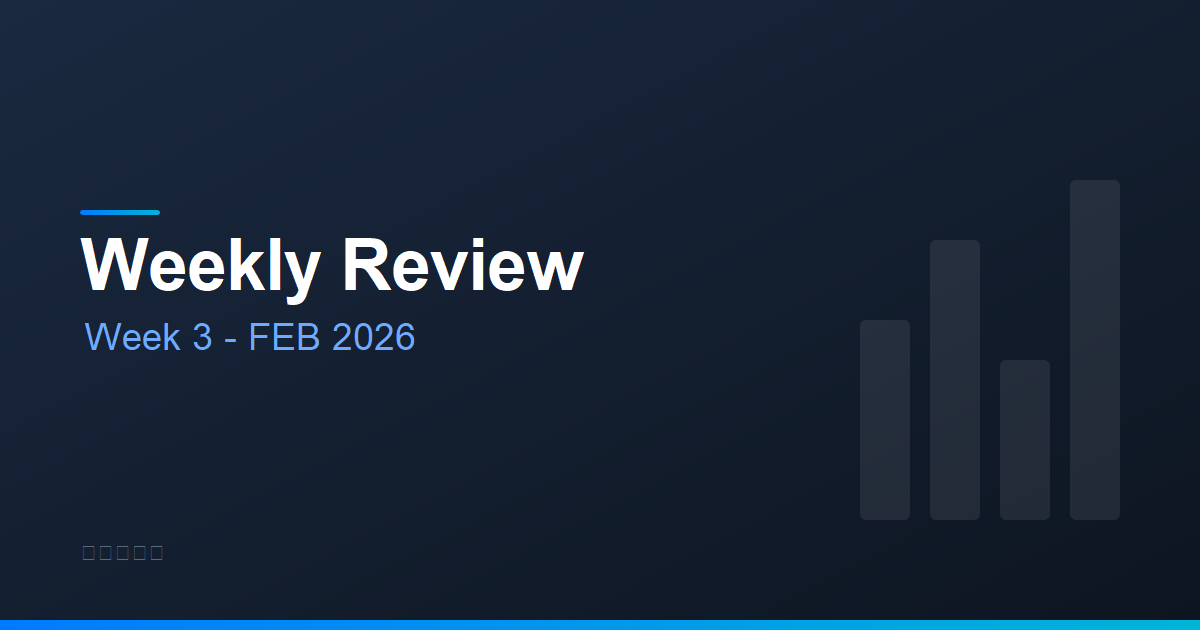
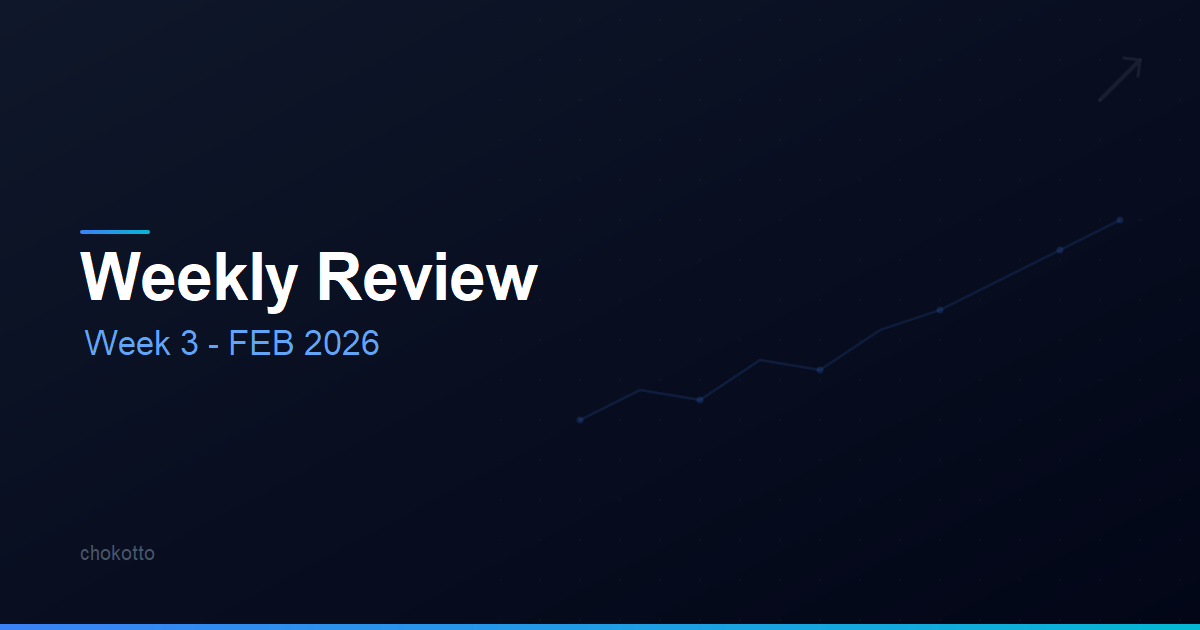
push

diff --git a/docs/quarto/latest/analysis.html b/docs/quarto/latest/analysis.html
@@ -487,10 +487,10 @@ window.Quarto = {
 </div>
 <div id="listing-posts" class="quarto-listing quarto-listing-container-default">
 <div class="list quarto-listing-default">
-<div class="quarto-post image-right" data-index="0" data-categories="V2Vla2x5JTIwUmV2aWV3JTJDTW9udGhseSUyMFJldmlldw==" data-listing-date-sort="1771081200000" data-listing-file-modified-sort="1771141282147" data-listing-date-modified-sort="NaN" data-listing-reading-time-sort="83" data-listing-word-count-sort="16458">
+<div class="quarto-post image-right" data-index="0" data-categories="V2Vla2x5JTIwUmV2aWV3JTJDTW9udGhseSUyMFJldmlldw==" data-listing-date-sort="1771081200000" data-listing-file-modified-sort="1771141916784" data-listing-date-modified-sort="NaN" data-listing-reading-time-sort="83" data-listing-word-count-sort="16458">
 <div class="thumbnail"><a href="./posts/2026-02-15-weekly-review/index.html" class="no-external">
 
-<img loading="lazy" src="./posts/2026-02-15-weekly-review/thumbnail.svg" class="thumbnail-image" style="height: 200px;">
+<img loading="lazy" src="./posts/2026-02-15-weekly-review/thumbnail.png" class="thumbnail-image" style="height: 200px;">
 
 </a></div>
 <div class="body">
